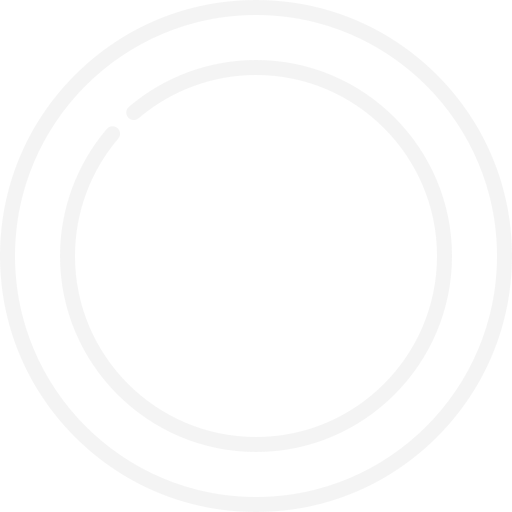
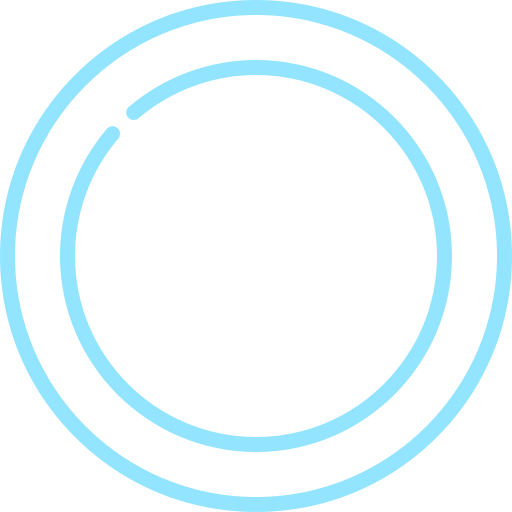
Big fix: quadrant no longer updates if already filled; titles no longer changes;game not playable after lock or win

Changed region(s): [[0.0, 0.0, 1.0, 1.0], [0.0938, 0.0938, 0.9062, 0.9062]]

diff --git a/src/controllers/ticTacToeController.js b/src/controllers/ticTacToeController.js
@@ -10,7 +10,7 @@ export default class TicTacToeController {
         this.nameSystem = usingNamingSystem
         this.valueSystem = usingValueSystem
         this.gameStatus = usingGameStatus
-
+        this.currentStatus = this.gameStatus.OnGoinG
         this.grid = new Array(9)
         this.grid.fill(this.valueSystem.empty)
     }
@@ -19,7 +19,20 @@ export default class TicTacToeController {
         return this.grid
     }
 
-    emptyGrid(){
+    getValueByPositionName(position){
+        if (position === this.nameSystem.superiorMid  ) {return this.grid[1]}
+        if (position === this.nameSystem.midLeft      ) {return this.grid[3]}
+        if (position === this.nameSystem.midRight     ) {return this.grid[5]}
+        if (position === this.nameSystem.bottomMid    ) {return this.grid[7]}
+        if (position === this.nameSystem.superiorLeft ) {return this.grid[0]}
+        if (position === this.nameSystem.superiorRight) {return this.grid[2]}
+        if (position === this.nameSystem.bottomLeft   ) {return this.grid[6]}
+        if (position === this.nameSystem.bottomRight  ) {return this.grid[8]}
+        if (position === this.nameSystem.center       ) {return this.grid[4]}
+    }
+    
+    restart(){
+        this.currentStatus = this.gameStatus.OnGoinG
         this.grid.fill(this.valueSystem.empty)
     }
 
@@ -30,33 +43,22 @@ export default class TicTacToeController {
     * @return {String}      gameStatus model object
     */
 
-        // positions with 2 win scenarios
-        if (position === this.nameSystem.superiorMid  ) this.grid[1] = value
-        if (position === this.nameSystem.midLeft      ) this.grid[3] = value
-        if (position === this.nameSystem.midRight     ) this.grid[5] = value
-        if (position === this.nameSystem.bottomMid    ) this.grid[7] = value
-
-        //positions with 3 wins scenarios
-        if (position === this.nameSystem.superiorLeft ) this.grid[0] = value
-        if (position === this.nameSystem.superiorRight) this.grid[2] = value
-        if (position === this.nameSystem.bottomLeft   ) this.grid[6] = value        
-        if (position === this.nameSystem.bottomRight  ) this.grid[8] = value
-
-        //positions with 4 wins scenarios 
-        if (position === this.nameSystem.center       ) this.grid[4] = value
-
-
-
-        if (this.isALock()) return this.gameStatus.matchLock
-        if (this.isAWin()){
-            if(value === this.valueSystem.x)
-            return this.gameStatus.matchWinX 
-            else 
-            return this.gameStatus.matchWinO
+        if (this.currentStatus === this.gameStatus.onGoing){
+            // positions with 2 win scenarios
+            if (position === this.nameSystem.superiorMid  ) {this.__fillGridOnIndex(1,value)}
+            if (position === this.nameSystem.midLeft      ) {this.__fillGridOnIndex(3,value)}
+            if (position === this.nameSystem.midRight     ) {this.__fillGridOnIndex(5,value)}
+            if (position === this.nameSystem.bottomMid    ) {this.__fillGridOnIndex(7,value)}
+            //positions with 3 wins scenarios
+            if (position === this.nameSystem.superiorLeft ) {this.__fillGridOnIndex(0,value)}
+            if (position === this.nameSystem.superiorRight) {this.__fillGridOnIndex(2,value)}
+            if (position === this.nameSystem.bottomLeft   ) {this.__fillGridOnIndex(6,value)}
+            if (position === this.nameSystem.bottomRight  ) {this.__fillGridOnIndex(8,value)}
+            //positions with 4 wins scenarios 
+            if (position === this.nameSystem.center       ) {this.__fillGridOnIndex(4,value)}
         }
-        else                return this.gameStatus.onGoing  
 
-            
+        return this.__updateStatus(value)
 
     }
 
@@ -69,34 +71,50 @@ export default class TicTacToeController {
     * @return 
     */
         //horizontal wins
-        if(this.grid[0] === this.grid[1] &&  this.grid[0] === this.grid[2] && this.grid[0]  !== this.valueSystem.empty)
-        {console.log("win scenario 1"); return true}
-
-        if(this.grid[3] === this.grid[4] &&  this.grid[3] === this.grid[5] && this.grid[3]  !== this.valueSystem.empty )
-        {console.log("win scenario 2"); return true}
-
-        if(this.grid[6] === this.grid[7] &&  this.grid[6] === this.grid[8] && this.grid[6] !== this.valueSystem.empty )
-        {console.log("win scenario 3");return true}
-
-
+        if(this.grid[0] === this.grid[1] &&  this.grid[0] === this.grid[2] && this.grid[0] !== this.valueSystem.empty){return true}
+        if(this.grid[3] === this.grid[4] &&  this.grid[3] === this.grid[5] && this.grid[3] !== this.valueSystem.empty){return true}
+        if(this.grid[6] === this.grid[7] &&  this.grid[6] === this.grid[8] && this.grid[6] !== this.valueSystem.empty){return true}
         //vertical wins
-        if(this.grid[0] === this.grid[3] && this.grid[0] === this.grid[6] &&  this.grid[0] !== this.valueSystem.empty )
-        {console.log("win scenario 4"); return true}
-
-        if(this.grid[1] === this.grid[4] &&  this.grid[1] === this.grid[7] &&  this.grid[1] !== this.valueSystem.empty )
-        {console.log("win scenario 5"); return true}
-
-        if(this.grid[2] === this.grid[5] &&  this.grid[2] === this.grid[8] &&  this.grid[2] !== this.valueSystem.empty )
-        {console.log("win scenario 6"); return true}
-
+        if(this.grid[0] === this.grid[3] &&  this.grid[0] === this.grid[6] && this.grid[0] !== this.valueSystem.empty){return true}
+        if(this.grid[1] === this.grid[4] &&  this.grid[1] === this.grid[7] && this.grid[1] !== this.valueSystem.empty){return true}
+        if(this.grid[2] === this.grid[5] &&  this.grid[2] === this.grid[8] && this.grid[2] !== this.valueSystem.empty){return true}
         //diagonal wins
-        if(this.grid[0] === this.grid[4] &&  this.grid[0]  === this.grid[8] &&  this.grid[0] !== this.valueSystem.empty )
-        {console.log("win scenario 7");return true}
-        if(this.grid[2] === this.grid[4] &&  this.grid[2] === this.grid[6]  &&  this.grid[2] !== this.valueSystem.empty )
-        {console.log("win scenario 8");return true}
-        
+        if(this.grid[0] === this.grid[4] &&  this.grid[0] === this.grid[8] && this.grid[0] !== this.valueSystem.empty){return true}
+        if(this.grid[2] === this.grid[4] &&  this.grid[2] === this.grid[6] && this.grid[2] !== this.valueSystem.empty){return true}
+
         return false
         
+    }
+
+    __updateStatus(value){
+        if (this.isALock()){
+            this.currentStatus = this.gameStatus.matchLock
+            return this.gameStatus.matchLock
+        } 
+        else if (this.isAWin()){
+            if(value === this.valueSystem.x && this.currentStatus !== this.gameStatus.matchWinO){
+                this.currentStatus = this.gameStatus.matchWinX
+                return this.gameStatus.matchWinX 
+            }
+            else if(value === this.valueSystem.o && this.currentStatus !== this.gameStatus.matchWinX){
+                this.currentStatus = this.gameStatus.matchWinO
+                return this.gameStatus.matchWinO
+            }
+        }
+        else {
+            this.currentStatus = this.gameStatus.onGoing
+            return this.gameStatus.onGoing  
+        }
+    }
+
+    __fillGridOnIndex(idx, value){
+        if (this.grid[idx]===this.valueSystem.empty){
+            console.log("considered " + this.grid[idx] + " a empty value")
+            this.grid[idx] = value
+        } else{
+            console.log("false")
+            return
+        }
     }
 
 }

diff --git a/src/componets/TicTacToe.js b/src/componets/TicTacToe.js
@@ -17,7 +17,6 @@ export default class TicTacToe extends React.Component{
     
     QuadrantClickHandler(name){
         let status = this.game.updateGrid(name, this.state.turn)
-        console.log(status)
         this.setState({status: status})
         this.state.turn === ValueSystem.x ? this.setState({turn: ValueSystem.o}) : this.setState({turn: ValueSystem.x})
         //console.log(this.state.turn)
@@ -28,11 +27,11 @@ export default class TicTacToe extends React.Component{
         if(this.state.status === StatusSystem.onGoing){
             return}
         if(this.state.status === StatusSystem.matchLock){
-            return( <span className="title">Nobody Wins!</span> )}
+            return "Nobody Wins!"}
         if(this.state.status === StatusSystem.matchWinO){
-            return( <span className="title">Circle Wins!</span> )}
+            return "Circle Wins!"}
         if(this.state.status === StatusSystem.matchWinX){
-            return( <span className="title">Cross Wins!</span> )}
+            return "Cross Wins!"}
     }
 
     restartButton(){
@@ -41,32 +40,31 @@ export default class TicTacToe extends React.Component{
 
     render(){
         return (
-            <div className="gameTable">
+            <div>
 
-                <div className="modal" >
-                    {this.displayMessage()}
-                    
-                <div/>
-                
+                <span className="title"> {this.displayMessage()} </span>
+
+                <div className="gameTable">
                 <div className="line">
-                    <Quadrant  value={this.state.turn} onClick={() => this.QuadrantClickHandler(NameSystem.superiorLeft)} />
-                    <Quadrant  value={this.state.turn} onClick={() => this.QuadrantClickHandler(NameSystem.superiorMid)} />
-                    <Quadrant  value={this.state.turn} onClick={() => this.QuadrantClickHandler(NameSystem.superiorRight)} />
+                    <Quadrant onClick={() => this.QuadrantClickHandler(NameSystem.superiorLeft)}  value={this.game.getValueByPositionName(NameSystem.superiorLeft)} />
+                    <Quadrant onClick={() => this.QuadrantClickHandler(NameSystem.superiorMid)}   value={this.game.getValueByPositionName(NameSystem.superiorMid)}/>
+                    <Quadrant onClick={() => this.QuadrantClickHandler(NameSystem.superiorRight)} value={this.game.getValueByPositionName(NameSystem.superiorRight)}/>
                 </div>
                 <div className="line">
-                    <Quadrant value={this.state.turn} onClick={() => this.QuadrantClickHandler(NameSystem.midLeft)} />
-                    <Quadrant value={this.state.turn} onClick={() => this.QuadrantClickHandler(NameSystem.center)} />
-                    <Quadrant value={this.state.turn} onClick={() => this.QuadrantClickHandler(NameSystem.midRight)} />
+                    <Quadrant onClick={() => this.QuadrantClickHandler(NameSystem.midLeft)}  value={this.game.getValueByPositionName(NameSystem.midLeft)}  />
+                    <Quadrant onClick={() => this.QuadrantClickHandler(NameSystem.center)}   value={this.game.getValueByPositionName(NameSystem.center)}  />
+                    <Quadrant onClick={() => this.QuadrantClickHandler(NameSystem.midRight)} value={this.game.getValueByPositionName(NameSystem.midRight)}  />
                 </div>
                 <div className="line">
-                    <Quadrant value={this.state.turn} onClick={() => this.QuadrantClickHandler(NameSystem.bottomLeft)} />
-                    <Quadrant value={this.state.turn} onClick={() => this.QuadrantClickHandler(NameSystem.bottomMid)} />
-                    <Quadrant value={this.state.turn} onClick={() => this.QuadrantClickHandler(NameSystem.bottomRight)} />
+                    <Quadrant onClick={() => this.QuadrantClickHandler(NameSystem.bottomLeft)}  value={this.game.getValueByPositionName(NameSystem.bottomLeft)}  />
+                    <Quadrant onClick={() => this.QuadrantClickHandler(NameSystem.bottomMid)}   value={this.game.getValueByPositionName(NameSystem.bottomMid)}   />
+                    <Quadrant onClick={() => this.QuadrantClickHandler(NameSystem.bottomRight)} value={this.game.getValueByPositionName(NameSystem.bottomRight)} />
+                </div>
                 </div>
 
                 <button onClick={this.restartButton} className="button">Start New Game</button>
 
-                </div>
+                
             </div>
         )}
 }

diff --git a/src/componets/GridQuadrant.js b/src/componets/GridQuadrant.js
@@ -7,36 +7,22 @@ import ValueSystem  from '../models/gridValueSystem'
 import StatusSystem from '../models/gameStatusModel'
 
 export default class GridQuadrant extends React.Component{
-    constructor(){
-        super()
-        this.state = {turn: 0}
-    }
-
 
     imageConditionalRender(){   
-        if (this.state.turn === 0){
+        if (this.props.value === 0){
             return
         }
-        if (this.state.turn === 'x'){
+        if (this.props.value === 'x'){
             return <img  src={x} className="xo_image" alt="x"/>
         }
         
-        if (this.state.turn === 'o'){
+        if (this.props.value === 'o'){
             return <img  src={o} className="xo_image" alt="o"/>
         }
     }
-
-    clickHandler(){
-        let currentValue = this.props.onClick()
-        this.setState({turn: currentValue})
-
-    }
-
-    
-
-
+ 
     render(){
-        return (<div className="gridQuadrant" onClick={() => this.clickHandler()}>
+        return (<div className="gridQuadrant" onClick={this.props.onClick}>
                     {this.imageConditionalRender()}
                 </div>)
     }

diff --git a/src/index.css b/src/index.css
@@ -6,7 +6,7 @@ body {
   align-items: center;
   height: 100vh;
   width: 100vw;
-  color: #f4f4f4;
+  color: #93e4ff;
   margin: 0;
   font-family: -apple-system, BlinkMacSystemFont, 'Segoe UI', 'Roboto', 'Oxygen',
     'Ubuntu', 'Cantarell', 'Fira Sans', 'Droid Sans', 'Helvetica Neue',
@@ -25,7 +25,7 @@ code {
 }
 
 .gridQuadrant{
-  border: 1px solid #f4f4f4;
+  border: 1px solid #d9c6ff;
   width: 120px;
   height: 120px;
   display: flex;
@@ -40,7 +40,10 @@ code {
 
 .title{
   width: inherit;
-  font-family: fantasy;
+  text-decoration: underline;
+  text-decoration-color: #d9c6ff;
+  text-decoration-thickness: 1px;
+  font-weight: 100;
   font-size: xxx-large;
   text-align: center;
   margin: 30px;
@@ -48,9 +51,10 @@ code {
 
 .button{
   background-color: black;
-  border: 1px solid #f4f4f4;
-  color: #f4f4f4;
-  font-family: fantasy;
+  border: 1px solid #d9c6ff;
+  color: #93e4ff;
+  font-family: monospace;
   font-size: large;
-  margin: 30px;
 }
+
+.gameTable{margin: 30px;}

diff --git a/src/App.js b/src/App.js
@@ -1,9 +1,3 @@
-
-
-// start time: 7:41  thu 31/03
-//         to: 8:37     thu 31/03
-// plus    
-
 import React from 'react'
 import TicTacToe from './componets/TicTacToe'
 
